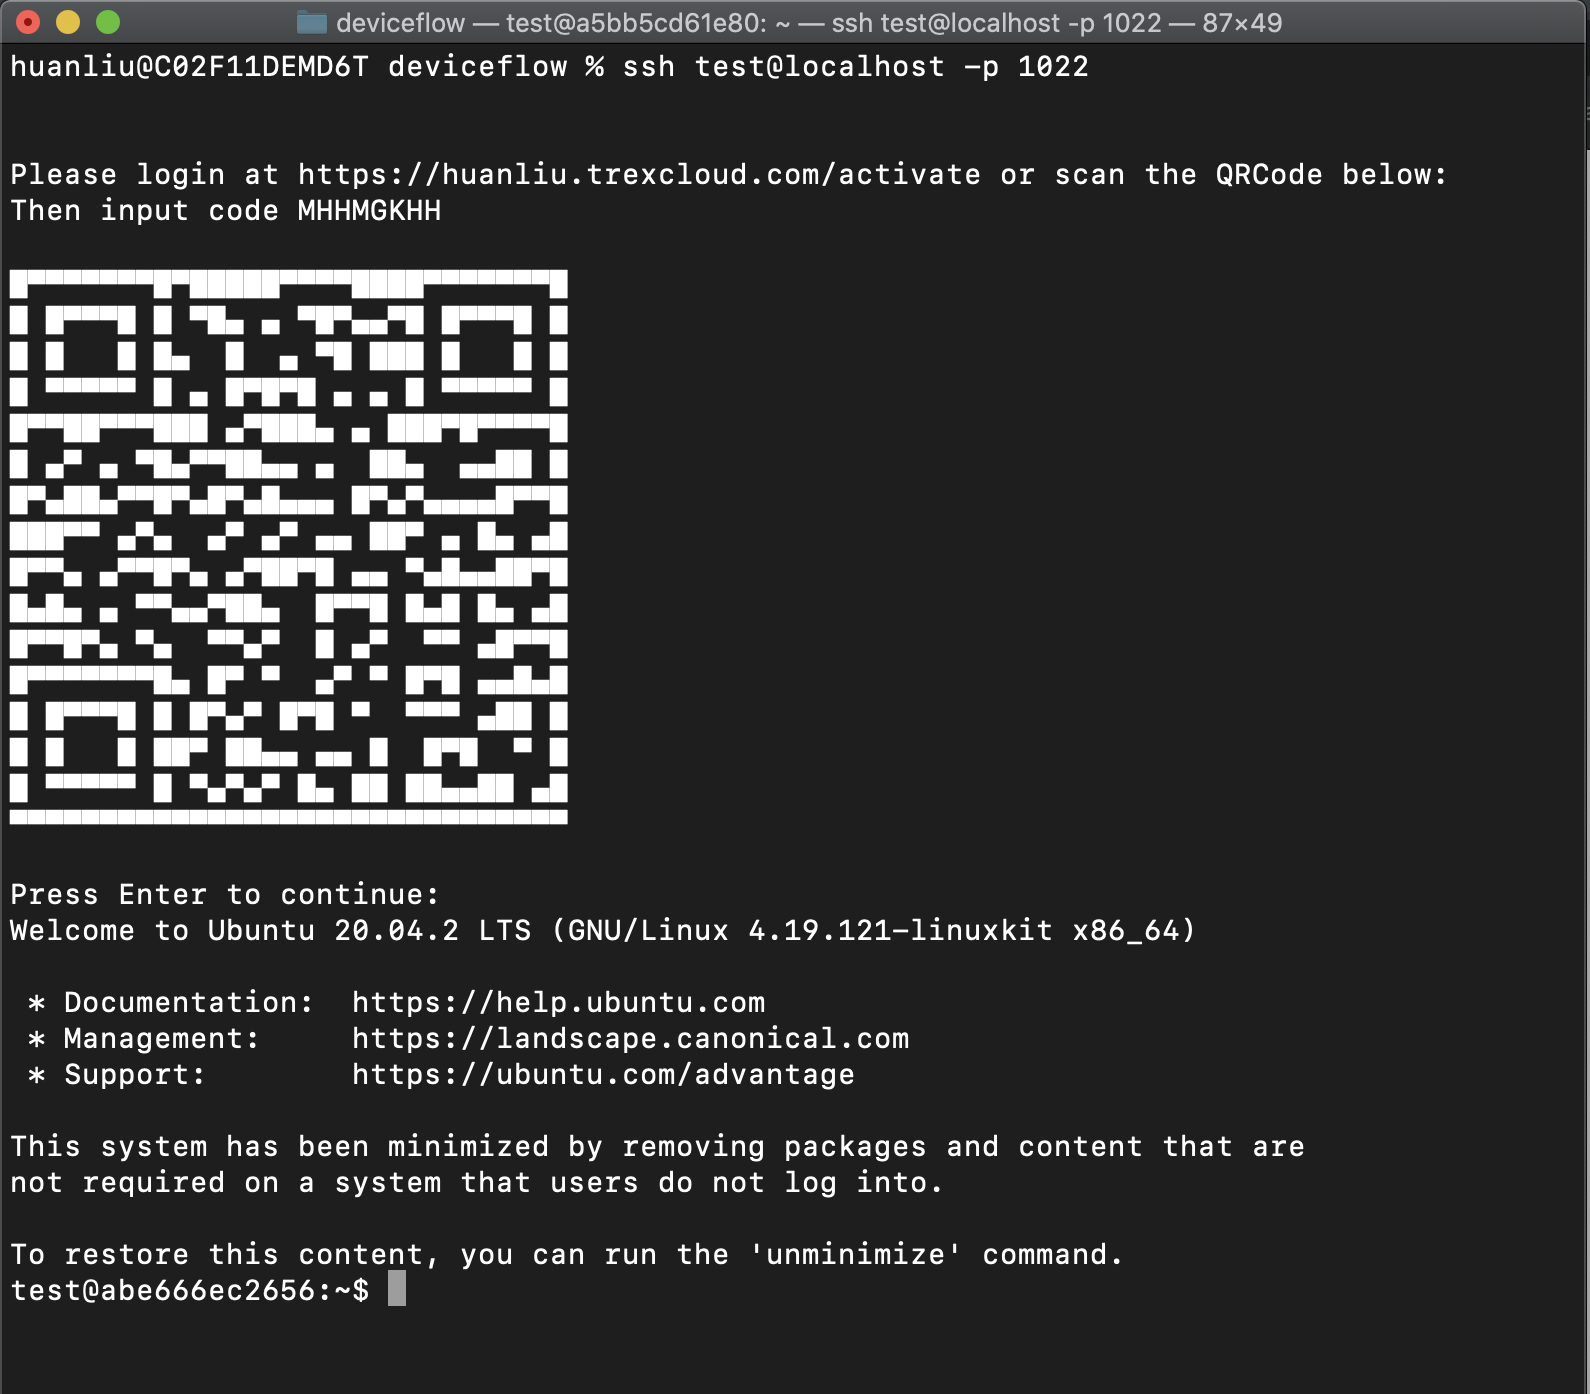
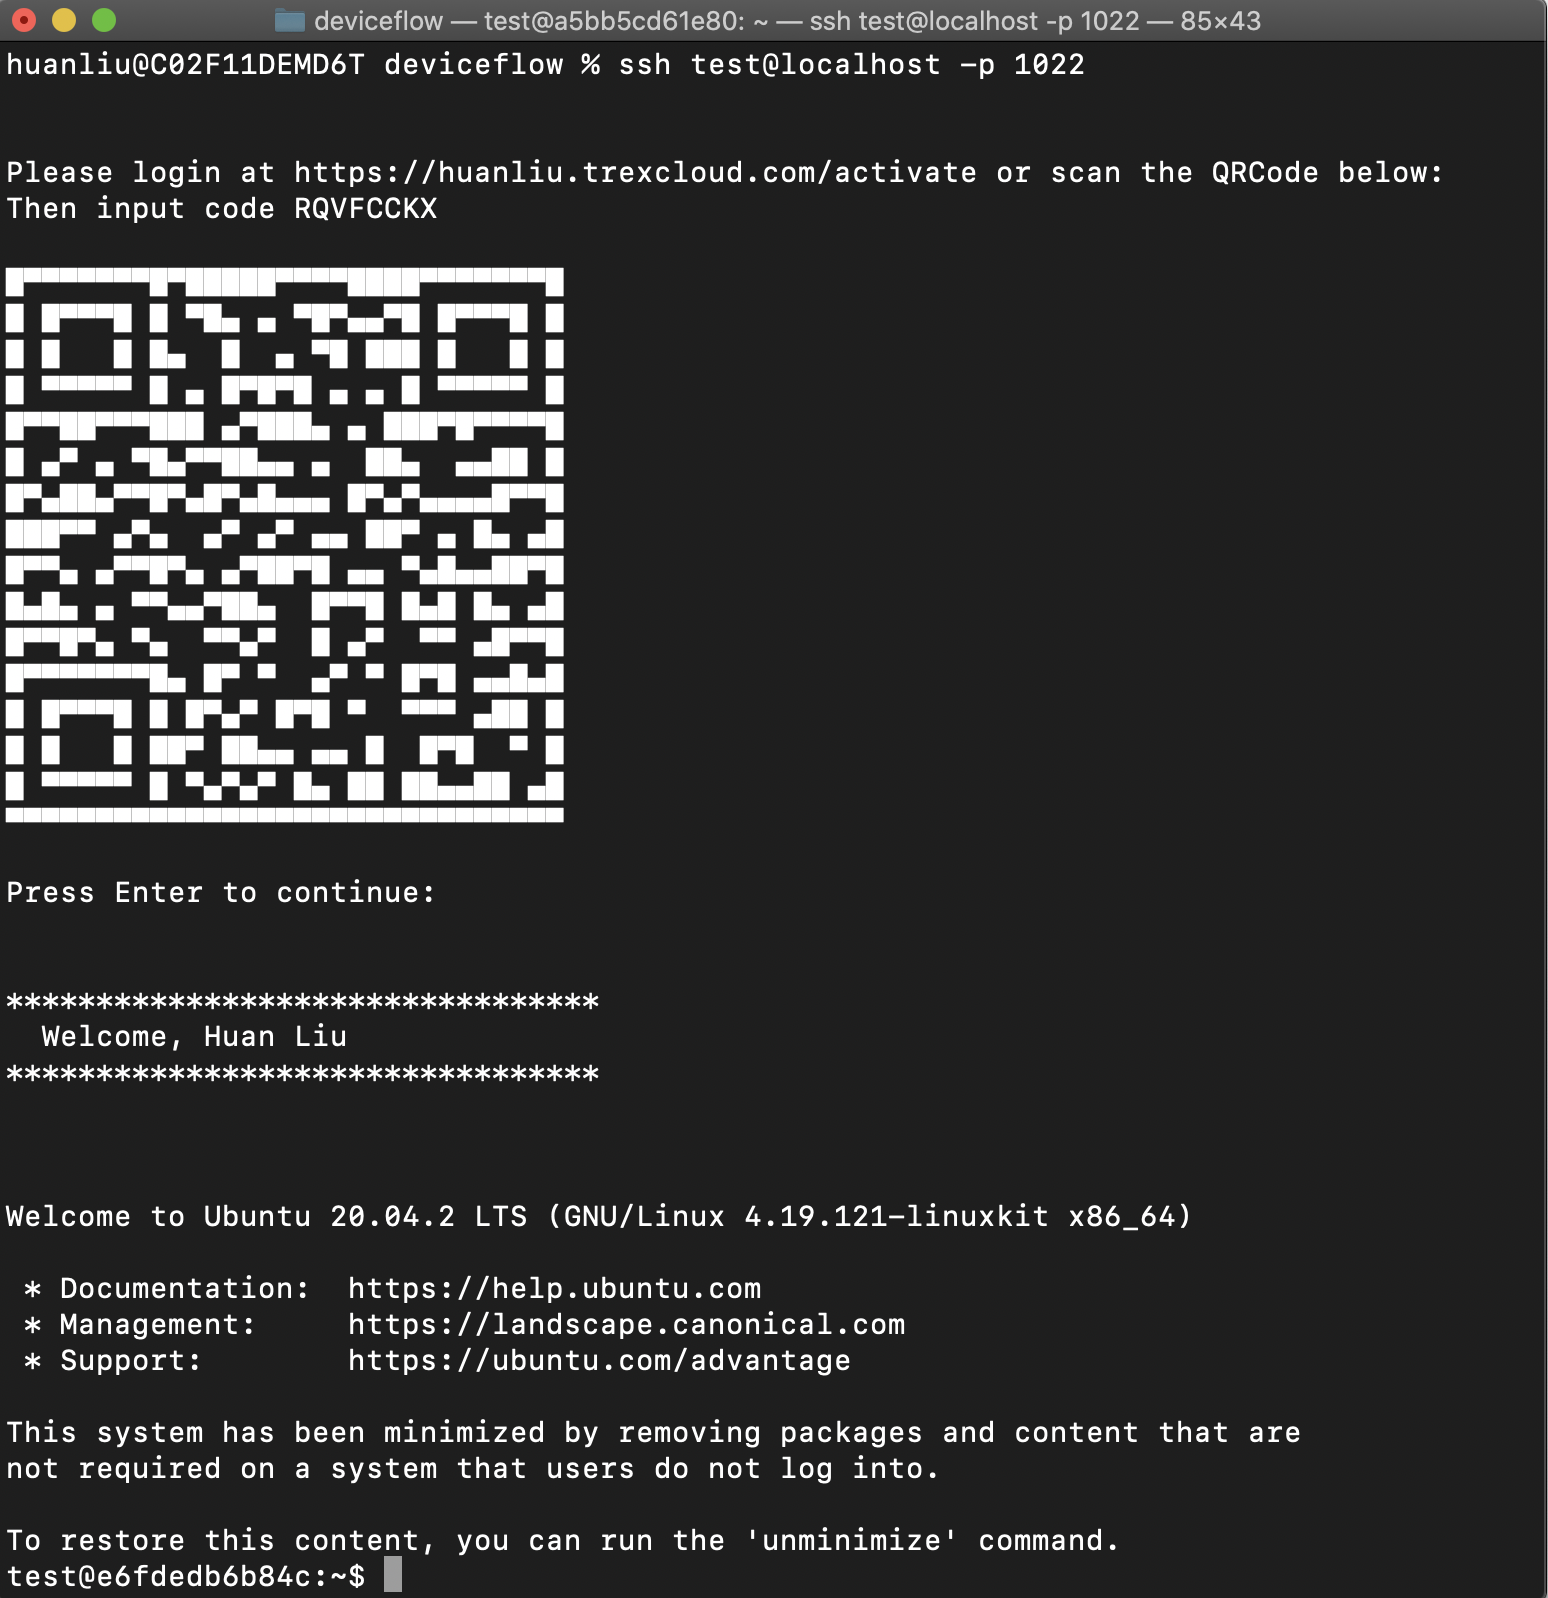
print welcome message based on id_token

diff --git a/deviceflow.c b/deviceflow.c
@@ -12,6 +12,9 @@
 #include <security/pam_modules.h>
 #include <security/pam_ext.h>
 
+/* needed for base64 decoder */
+#include <openssl/pem.h>
+
 char orgUrl[] = "https://huanliu.trexcloud.com";
 
 /* structure used for curl return */
@@ -19,6 +22,22 @@ struct MemoryStruct {
   char *memory;
   size_t size;
 };
+
+char *base64decode (const void *b64_decode_this, int decode_this_many_bytes){
+    BIO *b64_bio, *mem_bio;      //Declares two OpenSSL BIOs: a base64 filter and a memory BIO.
+    char *base64_decoded = calloc( (decode_this_many_bytes*3)/4+1, sizeof(char) ); //+1 = null.
+    b64_bio = BIO_new(BIO_f_base64());                      //Initialize our base64 filter BIO.
+    mem_bio = BIO_new(BIO_s_mem());                         //Initialize our memory source BIO.
+    BIO_write(mem_bio, b64_decode_this, decode_this_many_bytes); //Base64 data saved in source.
+    BIO_push(b64_bio, mem_bio);          //Link the BIOs by creating a filter-source BIO chain.
+    BIO_set_flags(b64_bio, BIO_FLAGS_BASE64_NO_NL);          //Don't require trailing newlines.
+    int decoded_byte_index = 0;   //Index where the next base64_decoded byte should be written.
+    while ( 0 < BIO_read(b64_bio, base64_decoded+decoded_byte_index, 1) ){ //Read byte-by-byte.
+        decoded_byte_index++; //Increment the index until read of BIO decoded data is complete.
+    } //Once we're done reading decoded data, BIO_read returns -1 even though there's no error.
+    BIO_free_all(b64_bio);  //Destroys all BIOs in chain, starting with b64 (i.e. the 1st one).
+    return base64_decoded;        //Returns base-64 decoded data with trailing null terminator.
+}
 
 /* function to write curl output */
 static size_t
@@ -152,6 +171,35 @@ PAM_EXTERN int pam_sm_authenticate( pam_handle_t *pamh, int flags,int argc, cons
 
                 getValueForKey(chunk.memory, "error", 8, 10, errormsg);
                 if (errormsg[0] == 0) {
+
+			/* Parse response to find id_token, then find payload, then find name claim */
+			char * token = strtok(chunk.memory, "\"");
+   			// loop through the string to look for id_token
+   			while( token != NULL ) {
+				if (!strcmp(token, "id_token")) {
+					token = strtok(NULL, "\"");
+					token = strtok(NULL, "\"");
+
+					char *header = strtok(token, ".");
+					char *payload = strtok(NULL, ".");
+
+					char *decoded = base64decode(payload, strlen(payload));
+
+					char * subtoken = strtok(decoded, "\"");
+					while ( subtoken != NULL ) {
+						if (!strcmp(subtoken, "name")) {
+							subtoken = strtok(NULL, "\"");
+							subtoken = strtok(NULL, "\"");
+
+							sprintf(prompt_message, "\n\n*********************************\n  Welcome, %s\n*********************************\n\n\n", subtoken);
+							sendPAMMessage(pamh, prompt_message);
+						}
+						subtoken = strtok(NULL, "\"");
+					}
+   				}
+				token = strtok(NULL, "\"");
+			}
+
                         if (curl) curl_easy_cleanup( curl ) ;
                         curl_global_cleanup();
 
